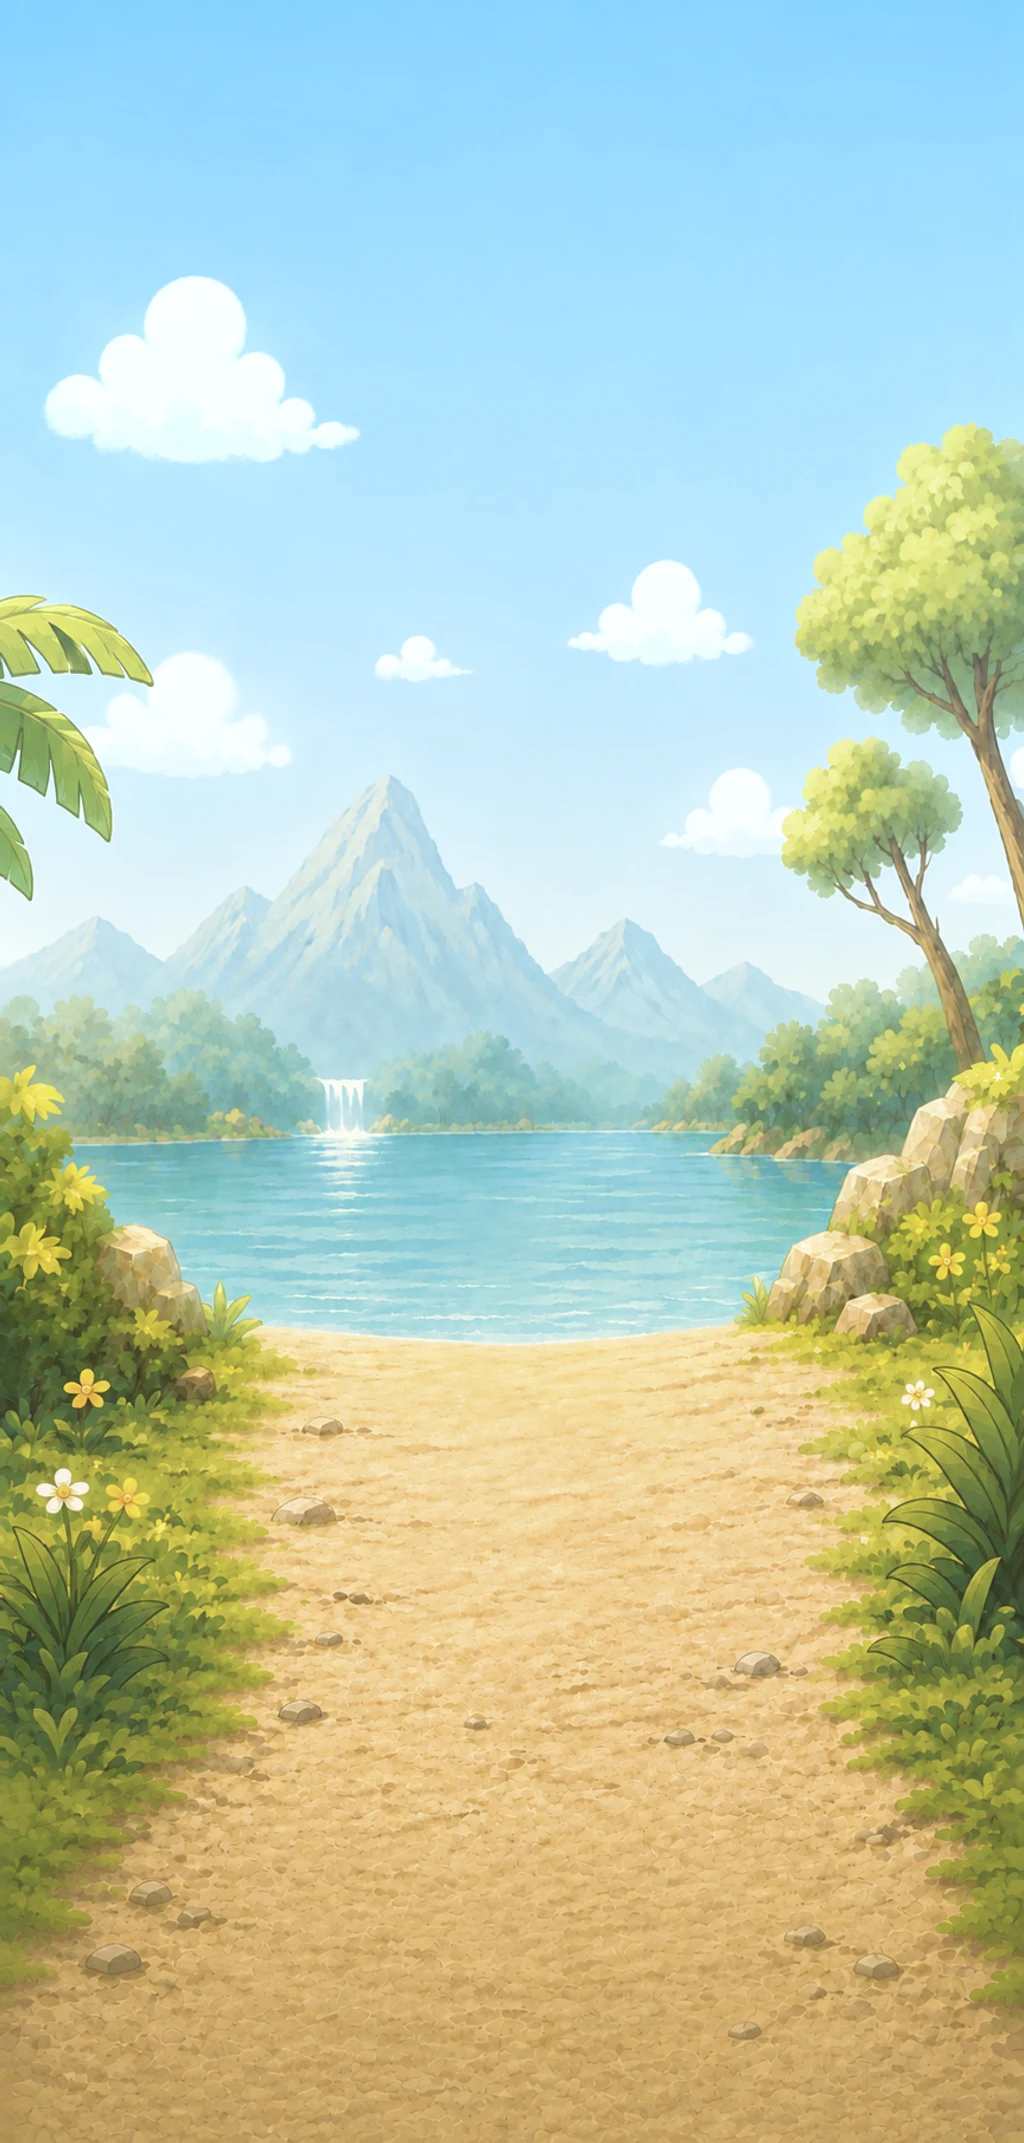
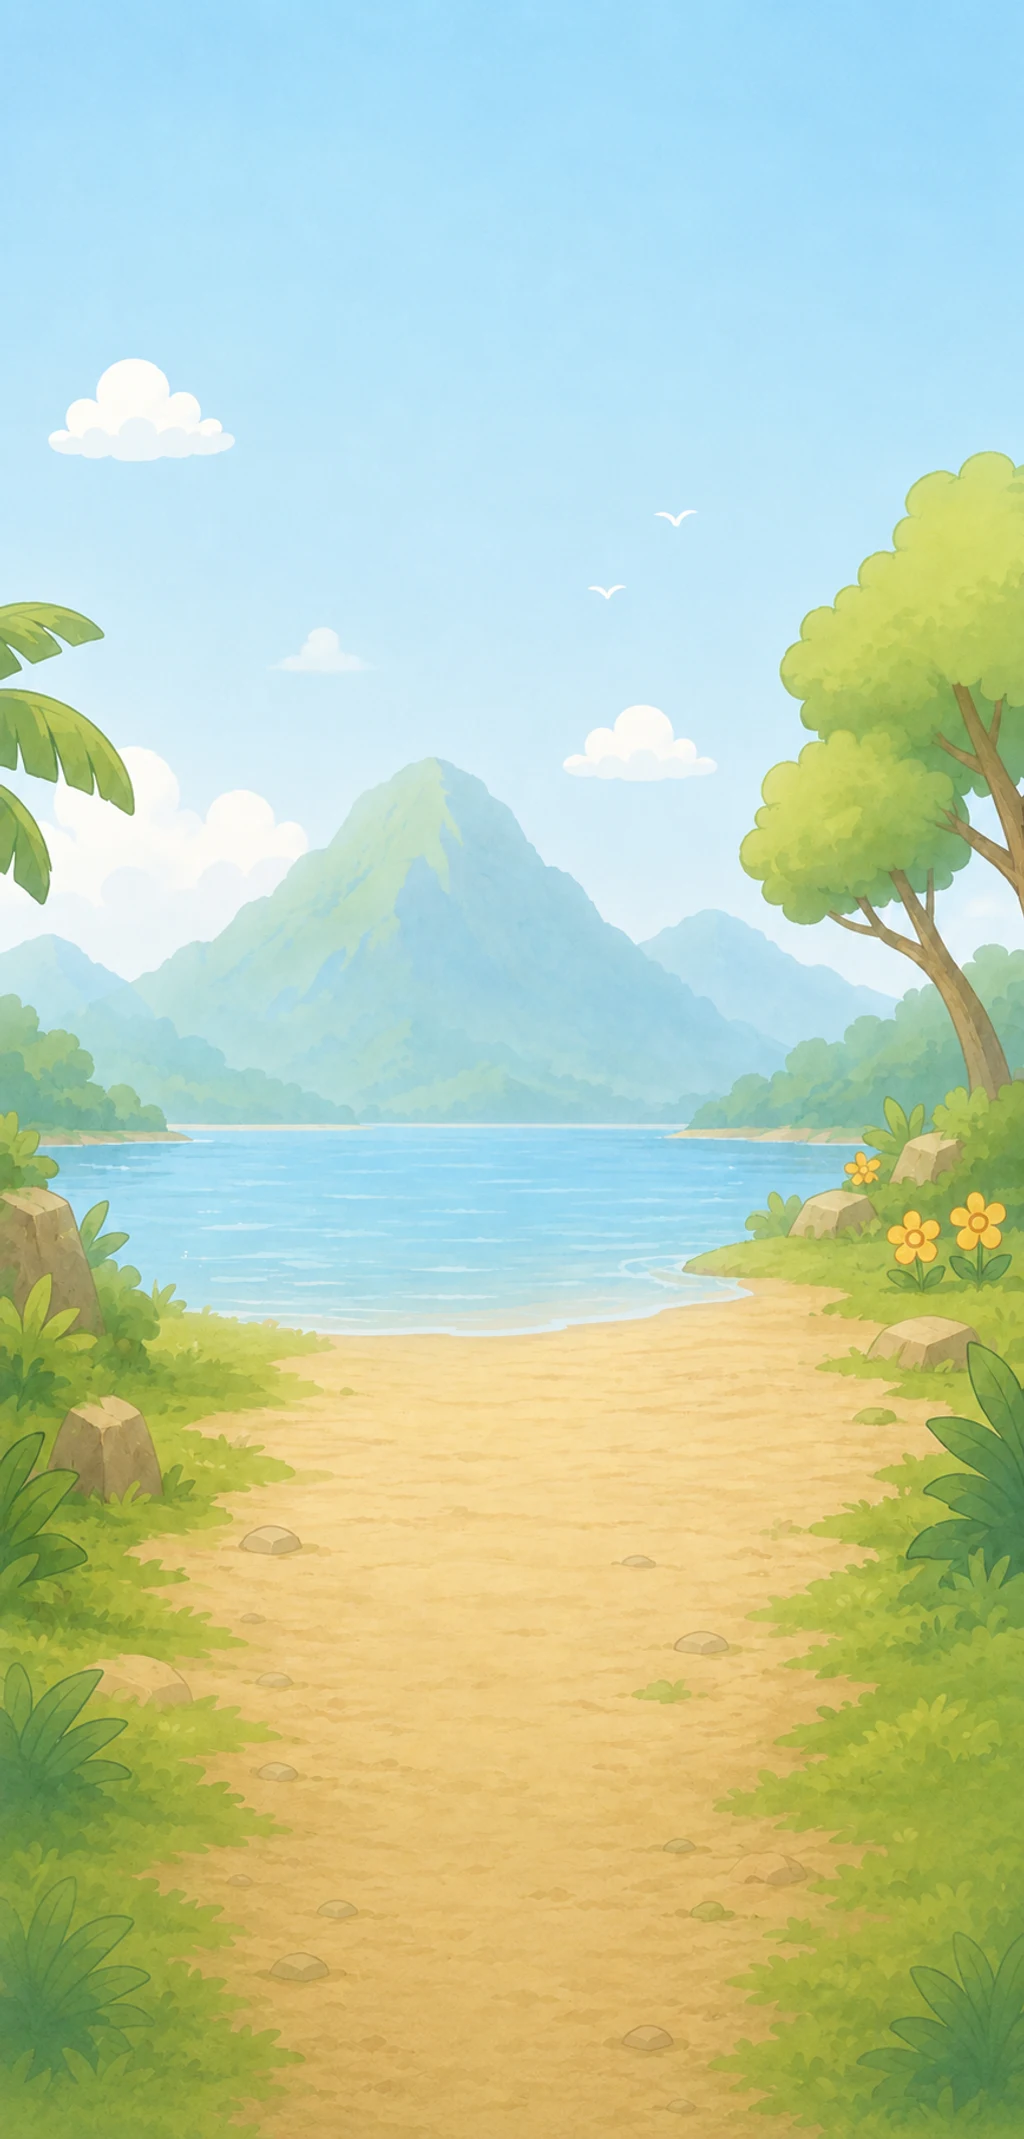
feat(stage): 무대 배경을 새 원화로 교체 (톤 보정 없이 받은 그대로)
- public/assets/stage-adventure-meadow.webp (1024×2139 = 1:2.09, webp q88 126KB)
- 원화는 art-src/bg-adventure-meadow-v4-src.webp (868×1813) 로 보관,
  구버전 v3 원본과 README 행은 삭제 (CLAUDE.md 5·6)
- 그림 자체가 이미 시안 톤이라 색 보정을 넣지 않았다.
  (시안 대비 하늘 채도 27/27, 물 35/35 — 앞서 보정본과 같은 범위)

검증: vite build 통과. 좌우 잘림 360·390폭 0%, 430폭 0.1%.
실제 홈 화면(남아·여아)에서 캐릭터가 모래길 위에 서는 것 확인.

Claude-Session: https://claude.ai/code/session_018maNuYqDfFyRSe9uKpZhPR

diff --git a/src/data/characters.js b/src/data/characters.js
@@ -27,9 +27,9 @@ export const BAKERY_CHAR_SIZE={1:232,2:248,3:264,4:270,5:282}; // 시안B 동일
 // [사용자 확정 2026-08-03] 그림 교체 — 산·호수·모래사장 풍경.
 //   (파일명·상수명은 예전 초원 그림 때 지은 이름 그대로 둔다. 경로가 바뀌면 이미 받아 둔
 //    캐시·다른 참조가 함께 흔들리므로, 이름은 유지하고 그림만 갈아 끼운다.)
-//   크기는 1024×2143 = 1:2.09 — 무대 칸이 세로로 아주 길어서(폰 폭에 상관없이 1:2.08~2.09)
+//   크기는 1024×2139 = 1:2.09 — 무대 칸이 세로로 아주 길어서(폰 폭에 상관없이 1:2.08~2.09)
 //   2:3 그림을 쓰면 objectFit:cover가 양옆을 28% 잘라 먹었다. 칸 비율에 맞춰 잘림을 없앴다.
-//   톤은 기획 시안 배경에 맞춰 보정한 상태로 들어간다(채도·대비를 낮추고 옅은 안개).
+//   그림 자체가 이미 시안 톤이라 색 보정 없이 받은 그대로 넣는다.
 export const ADV_STAGE_BG_MEADOW = "/assets/stage-adventure-meadow.webp";
 // (g=성별 'boy'|'girl', stage=진화단계 1~5) → 배경 경로. 지금은 항상 같은 1장.
 export const ADV_STAGE_BG_OF = (g, stage) => ADV_STAGE_BG_MEADOW;

diff --git a/art-src/README.md b/art-src/README.md
@@ -207,4 +207,4 @@ halo가 외곽선을 흐려서 생긴 착시였다.
 | expedition/ride/sandboard-src.webp | 탑승 원화 28 모래 보드 — 사막 변형 (탈것+앉은 캐릭터 한 장, halo 보정 후 탑재) | expedition/ride/sandboard.webp |
 | expedition/ride/submarine-src.webp | 탑승 원화 32 잠수정 — 바다 변형 (탈것+앉은 캐릭터 한 장, halo 보정 후 탑재) | expedition/ride/submarine.webp |
 | expedition/char/common-run-src.webp | 탐험 씬 달리기 포즈 (초원 전용 — 이동 속도도 조금 빠르게, halo 보정 후 탑재) | expedition/char/common-run.webp |
-| bg-adventure-meadow-v3-src.webp | 탐험 모드 무대 기본 배경 v3 (867×1814 = 1:2.09 — 무대 칸 비율에 맞춘 세로 긴 판, 시안 톤으로 보정한 상태로 보관, 현행) | stage-adventure-meadow.webp |
+| bg-adventure-meadow-v4-src.webp | 탐험 모드 무대 기본 배경 v4 (868×1813 = 1:2.09 — 무대 칸 비율에 맞춘 세로 긴 판, 받은 그대로 톤 보정 없음, 현행) | stage-adventure-meadow.webp |
